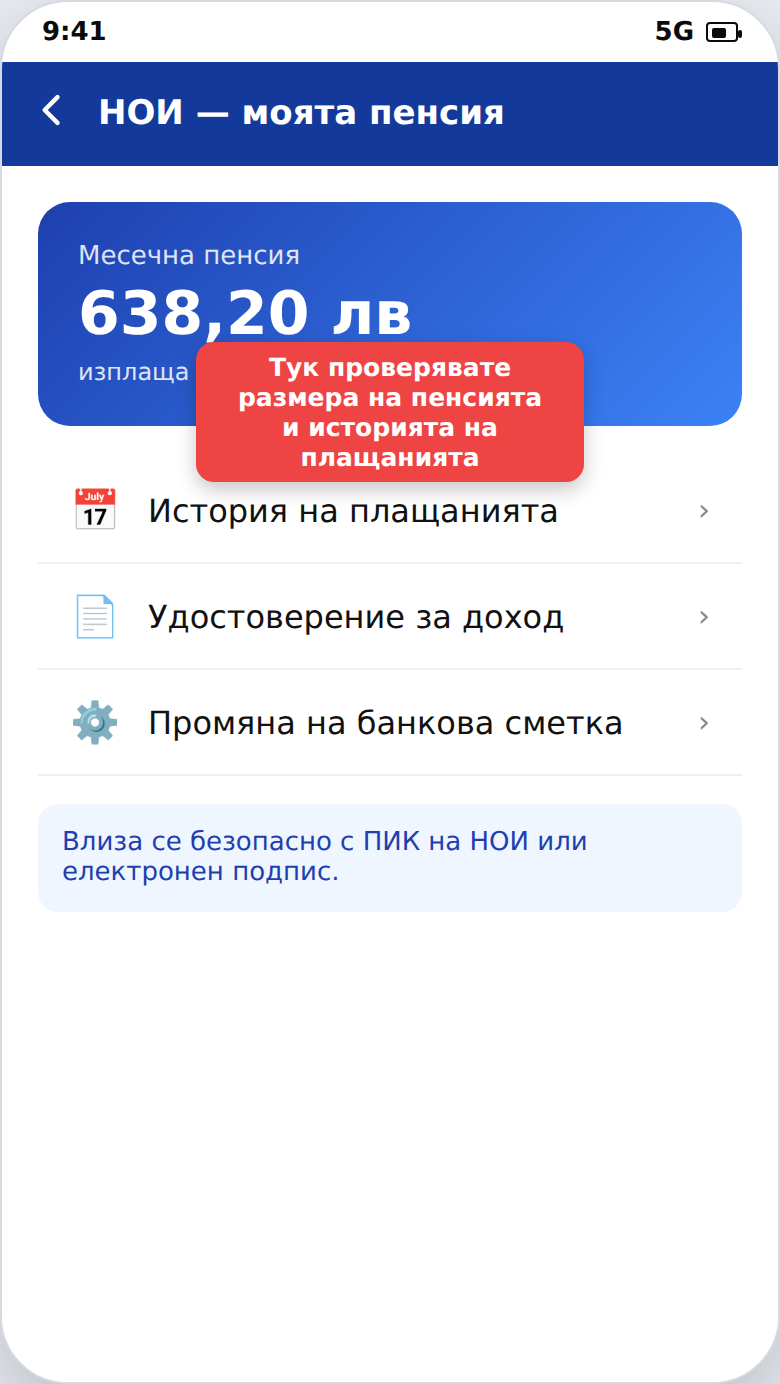
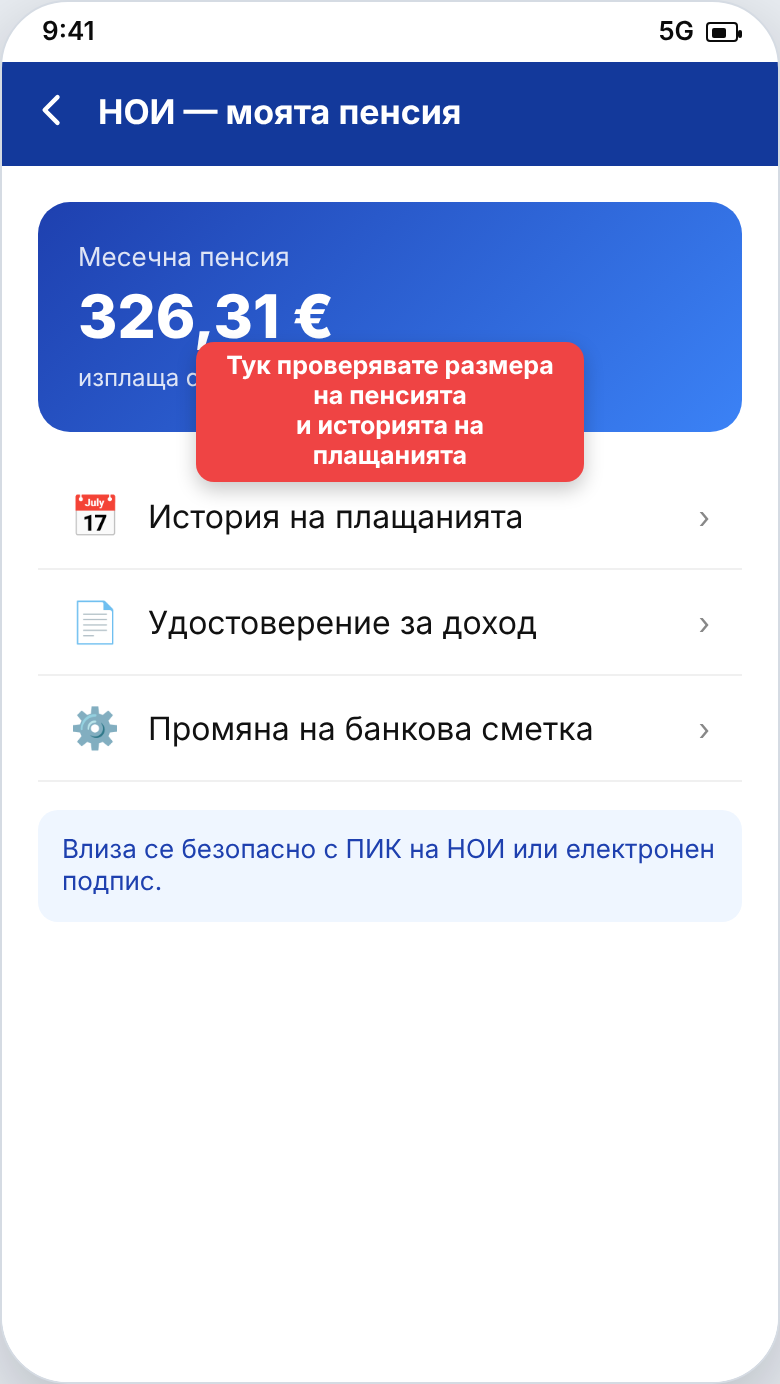
fix(zabobovdol): картинката „НОИ — моята пенсия“ в евро; махната остарялата euro-dual-period
- noi-pension.png (6 ръководства за пенсията) показва „326,31 €“ вместо
  „638,20 лв“ (638,20 / 1,95583 = 326,306…); прерисуван само този екран от
  scripts/howto-mockups/gen-more.js.
- euro-dual-period.png (двойното обращение и безплатната обмяна като
  предстоящи) не се ползва никъде — изтрита заедно с екрана в gen-5.js,
  за да не се върне при прерисуване.

Claude-Session: https://claude.ai/code/session_018VucGzHyuE8LfAu7ZMqZer

diff --git a/zabobovdol/scripts/howto-mockups/gen-5.js b/zabobovdol/scripts/howto-mockups/gen-5.js
@@ -226,18 +226,4 @@ S["euro-rate"] = phone(`
   ${tip("Курсът е един и същ навсякъде —<br>сумата ви остава същата","left:50%;top:70px;transform:translateX(-50%)")}
 `);
 
-S["euro-dual-period"] = phone(`
-  <div class="grow" style="background:#fff;display:flex;flex-direction:column;align-items:center;justify-content:center;padding:24px">
-    <div style="font-size:54px;margin-bottom:8px">👛</div>
-    <div style="font-size:18px;font-weight:700;color:#111;text-align:center;margin-bottom:6px">Първите седмици — и левове, и евро</div>
-    <div style="font-size:14px;color:#666;text-align:center;margin-bottom:20px">До 31 януари 2026 плащате с двете. Рестото ви връщат в евро.</div>
-    <div style="display:flex;gap:16px">
-      <div style="text-align:center"><div style="width:90px;height:50px;border-radius:6px;background:#5cb85c;display:flex;align-items:center;justify-content:center;color:#fff;font-weight:800">лв ✓</div><div style="font-size:12px;color:#444;margin-top:6px">до 31.01.2026</div></div>
-      <div style="text-align:center"><div style="width:90px;height:50px;border-radius:6px;background:#0a3d6b;display:flex;align-items:center;justify-content:center;color:#fff;font-weight:800">€ ✓</div><div style="font-size:12px;color:#444;margin-top:6px">винаги</div></div>
-    </div>
-    <div style="background:#fffbea;border:1px solid #fde68a;border-radius:10px;padding:12px;font-size:13px;color:#854d0e;margin-top:20px;text-align:center">Левовете в банка/поща се обменят безплатно до 30 юни 2026, а в БНБ — безсрочно.</div>
-  </div>
-  ${tip("Не бързайте да обменяте — има време.<br>Никой не идва вкъщи да „обменя“","left:50%;bottom:60px;transform:translateX(-50%)")}
-`);
-
 render(S).catch((e) => { console.error(e); process.exit(1); });

diff --git a/zabobovdol/src/lib/howto-illustrations.ts b/zabobovdol/src/lib/howto-illustrations.ts
@@ -415,9 +415,9 @@ const MAP: Record<string, Illustration[]> = {
   "e-kurs": [{ src: "/kak-da/euro-rate.png", alt: "Фиксиран курс 1 евро = 1,95583 лева" }],
   "e-kak-presmiatam": [{ src: "/kak-da/euro-rate.png", alt: "Как да пресметна цена от лева в евро" }],
   "e-kolko-struva": [{ src: "/kak-da/euro-rate.png", alt: "Колко струва нещо в евро" }],
-  // „e-leva-do-koga“ и „e-leva-vkashti“ нямат картинка: euro-dual-period.png
-  // говори за двойното обращение и безплатната обмяна в банки като за
-  // предстоящи („Не бързайте — има време“), а те приключиха (1.02 и 30.06.2026).
+  // „e-leva-do-koga“ и „e-leva-vkashti“ нямат картинка: старата
+  // (euro-dual-period, махната) говореше за двойното обращение и безплатната
+  // обмяна в банки като за предстоящи, а те приключиха (1.02 и 30.06.2026).
   "e-falshivo-evro": [{ src: "/kak-da/fake-banknote.png", alt: "Как да позная фалшиво евро по защитните белези" }],
 
   // ── Още телефонни действия и приложения ──

diff --git a/zabobovdol/scripts/howto-mockups/gen-more.js b/zabobovdol/scripts/howto-mockups/gen-more.js
@@ -224,7 +224,7 @@ S["noi-pension"] = phone(`
   <div class="grow" style="background:#fff;padding:18px">
     <div style="background:linear-gradient(135deg,#1e40af,#3b82f6);color:#fff;border-radius:16px;padding:20px;margin-bottom:16px">
       <div style="font-size:13px;opacity:.85">Месечна пенсия</div>
-      <div style="font-size:30px;font-weight:800;margin:4px 0">638,20 лв</div>
+      <div style="font-size:30px;font-weight:800;margin:4px 0">326,31 €</div>
       <div style="font-size:12px;opacity:.85">изплаща се около 7-мо число</div>
     </div>
     ${[["📅","История на плащанията",""],["📄","Удостоверение за доход",""],["⚙","Промяна на банкова сметка",""]].map(([e,t,d])=>setRow(e,t,"›")).join("")}
